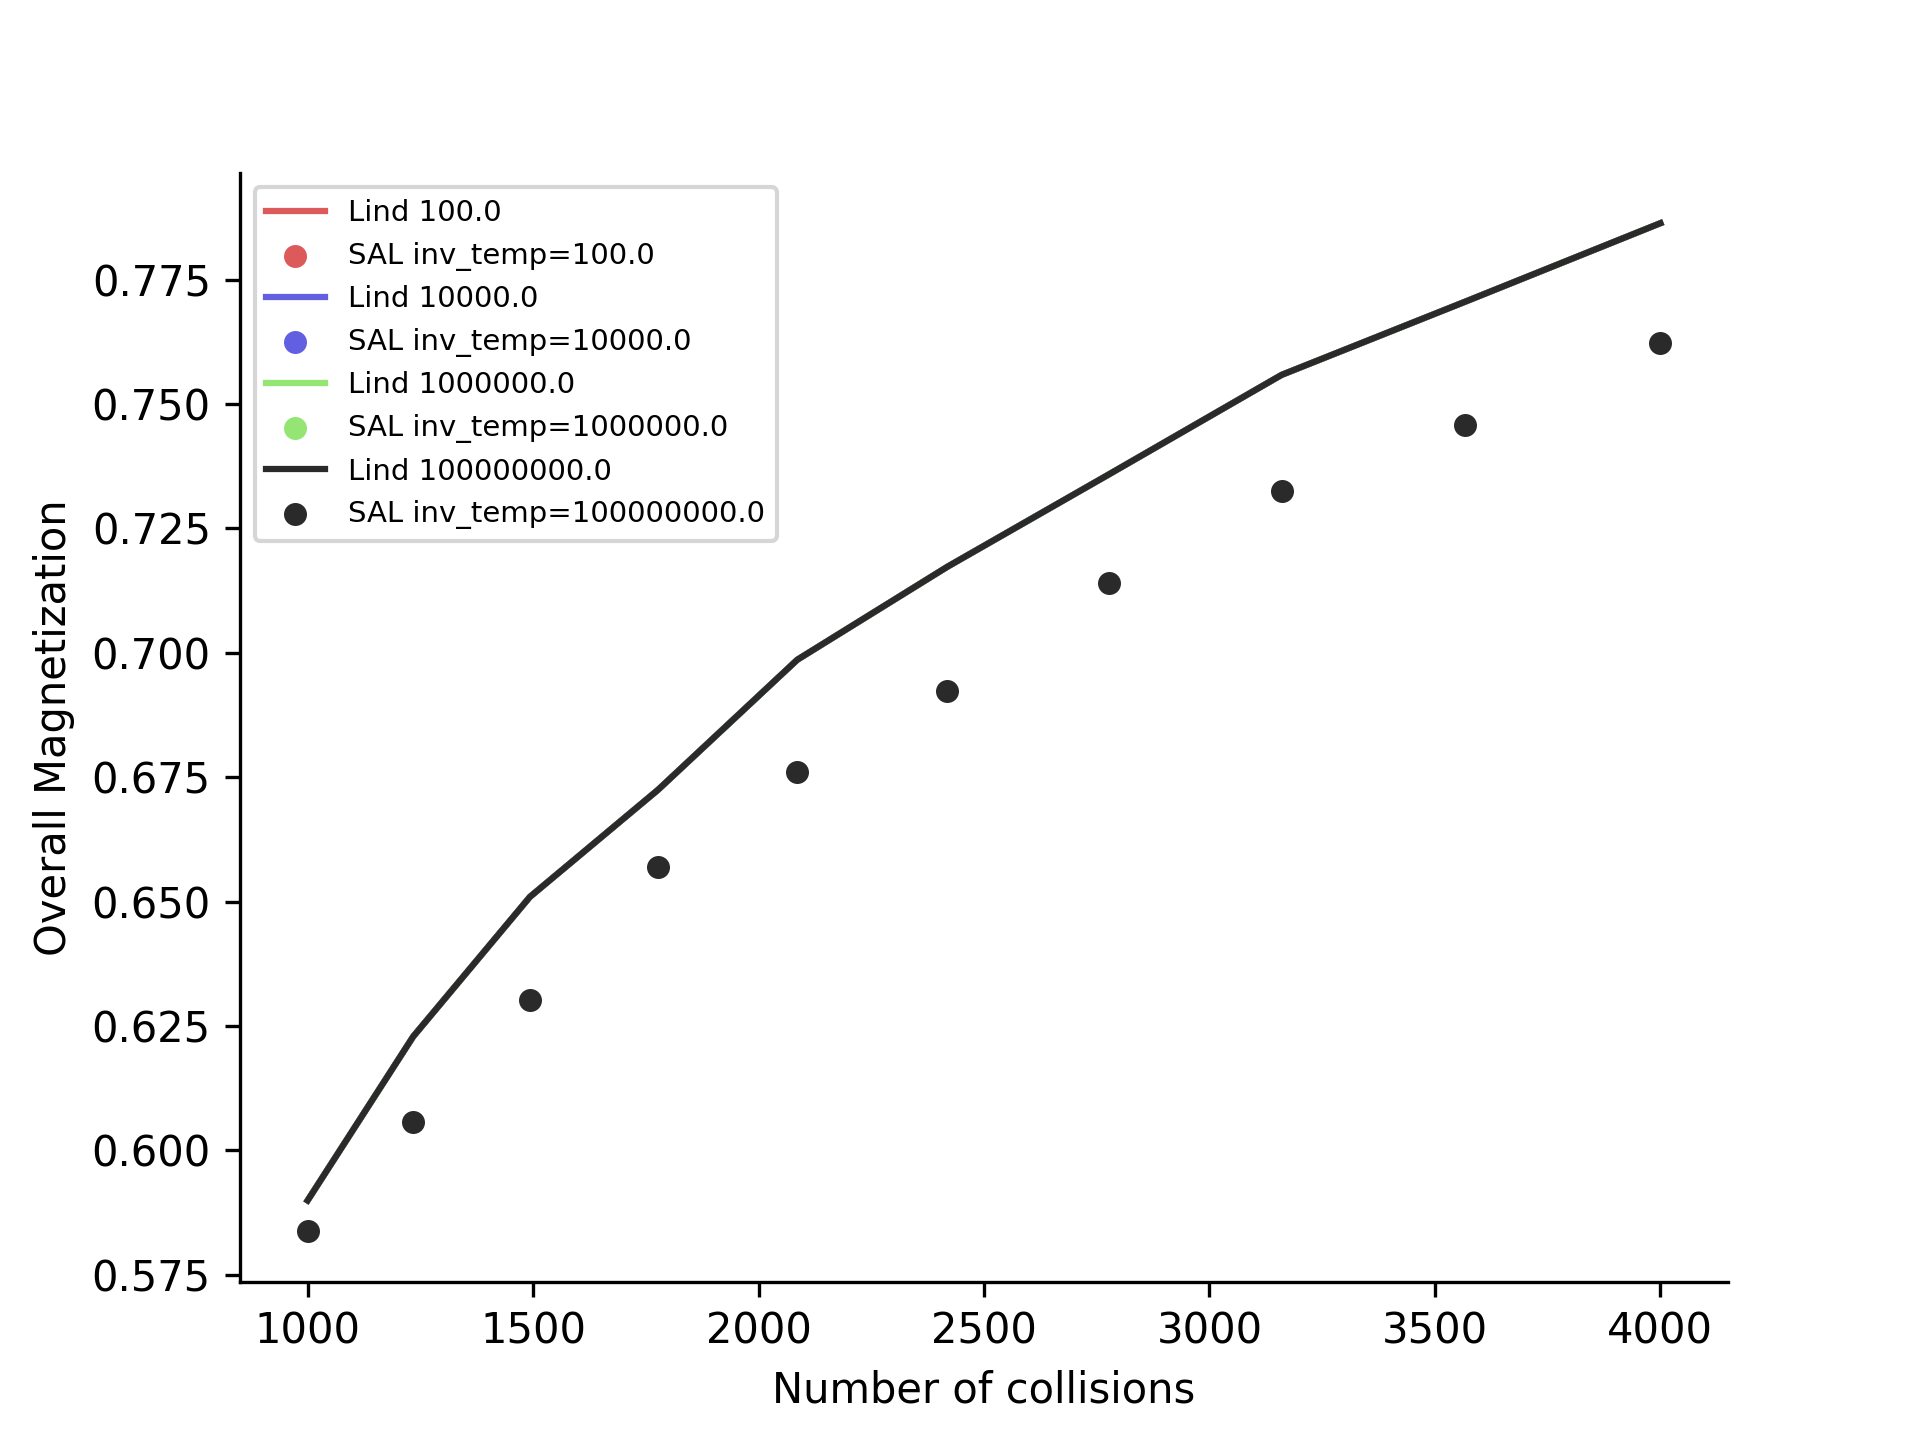
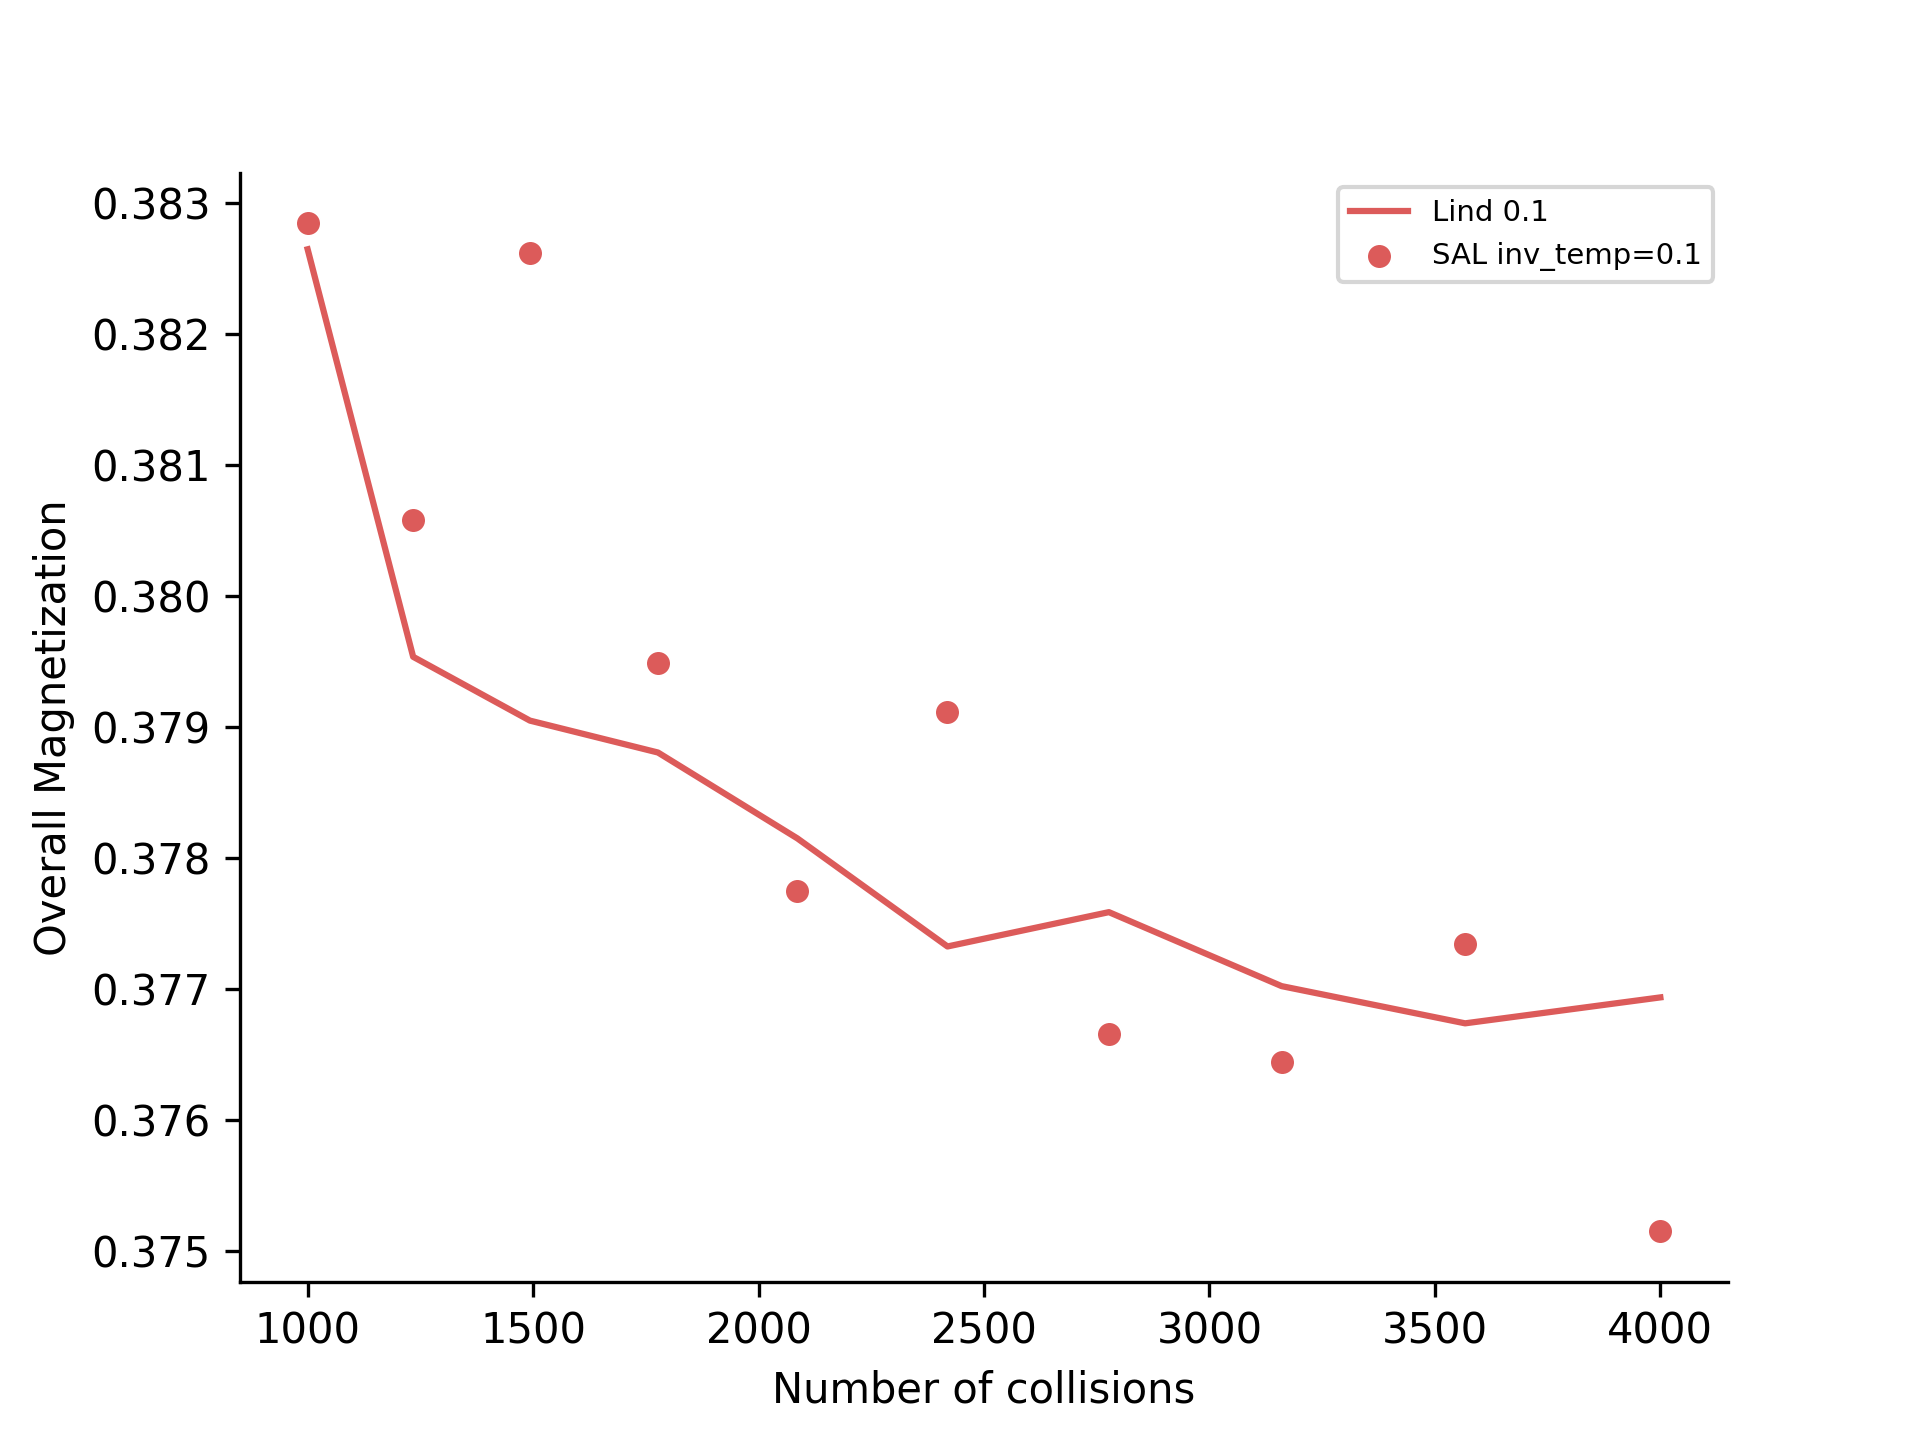
one good plot

diff --git a/ising/nonmarkovian/swap/multi_temperature.py b/ising/nonmarkovian/swap/multi_temperature.py
@@ -27,13 +27,13 @@ def calculate_gamma(beta):
 QUBIT_COUNT = 4
 GAMMA = 0.1
 PS_COUNT = 5
-PS_STRENGTH = [np.pi/2 - 0.1]
+PS_STRENGTH = [np.pi/2 - 0.01]
 TIME_RANGE = (10, 20)
 TIME_COUNT = 10
 EPS = 1
 # INV_TEMP = 1
 
-INV_TEMPS = [1e2, 1e4, 1e6, 1e8]
+INV_TEMPS = [0.1]
 
 H_VAL = -0.1
 COLORS = ["#DC5B5A", "#625FE1", "#94E574", "#2A2A2A", "#D575EF"]
@@ -72,7 +72,7 @@ def _kron_multi(ls):
     return prod
 
 
-# @hache(blob_type=float, max_size=1000)
+@hache(blob_type=float, max_size=1000)
 def lindblad_evo(rho, ham, gamma, z, time, observable):
     """
     Function to calculate final state after amplitude damping.
@@ -171,7 +171,7 @@ def make_valid_rho(rho):
     return rho_normalized
 
 
-# @hache(blob_type=float, max_size=1000)
+@hache(blob_type=float, max_size=1000)
 def ham_evo_nonmarkovian(rho_sys, rho_env, ham_sys, partial_swap, gamma, time, neu, observable):
     """
     Perform nonmarkovian evolution with the addition of partial swap of 
